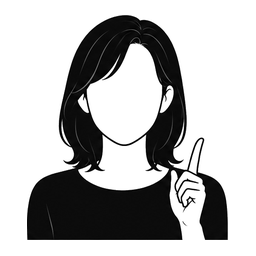
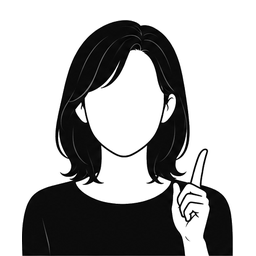
fix: アバターを下端接地にして下余白をなくす
後処理の配置を上下対称マージンから「被写体サイズは変えず下端接地・
下余白0・余白は上のみ」に変更する。既定アセット female_middle_1 を
再生成する。

Changed region(s): [[0.0625, 0.0312, 0.9375, 1.0], [0.3125, 0.2188, 0.3438, 0.2812], [0.2812, 0.1875, 0.3125, 0.2188]]

diff --git a/scripts/avatar-generation/postprocess.py b/scripts/avatar-generation/postprocess.py
@@ -13,8 +13,8 @@ from PIL import Image
 
 # これ未満のアルファ（＝薄いドロップシャドウ・背景のにじみ）は透明に落とす。
 SHADOW_CUTOFF = 36
-# 正方化後に付ける余白の割合（被写体が縁に張り付かないように）。
-MARGIN_RATIO = 0.06
+# 被写体の縦占有（残りは上の余白になる）。下端に接地するので下余白は常に0。
+SUBJECT_HEIGHT_RATIO = 0.92
 
 
 def postprocess(src: str, dst: str) -> None:
@@ -27,16 +27,16 @@ def postprocess(src: str, dst: str) -> None:
     if box:
         alpha = alpha.crop(box)
 
-    # 高さ（頭〜肩の縦）基準で正規化する。横幅が広い大柄でも全体を縮めず、
-    # 頭のサイズ・位置を一定に保ち、はみ出す肩は左右にブリードさせる（切れてよい）。
+    # 被写体のサイズは変えず（縦占有 SUBJECT_HEIGHT_RATIO）、下端に接地する。
+    # 余白は上だけに残り、下余白は0。横幅が広い大柄は左右にブリードさせる（切れてよい）。
     width, height = alpha.size
-    target_height = round(256 * (1 - MARGIN_RATIO * 2))
+    target_height = round(256 * SUBJECT_HEIGHT_RATIO)
     scale = target_height / height
     scaled = alpha.resize((max(1, round(width * scale)), target_height), Image.LANCZOS)
 
     canvas = Image.new("L", (256, 256), 0)
-    offset_x = (256 - scaled.width) // 2  # 中央寄せ。広ければ左右にはみ出して切れる
-    offset_y = round(256 * MARGIN_RATIO)  # 頭を上端側に一定マージンで置く
+    offset_x = (256 - scaled.width) // 2  # 横は中央。広ければ左右にはみ出して切れる
+    offset_y = 256 - scaled.height  # 下端に接地（下余白0・余白は上のみ）
     canvas.paste(scaled, (offset_x, offset_y))
 
     asset = Image.new("RGBA", (256, 256), (0, 0, 0, 0))
